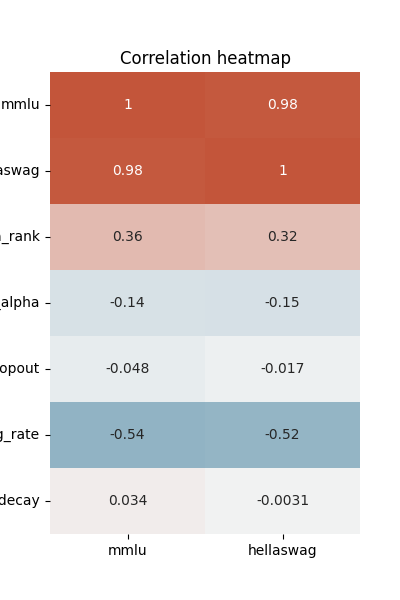
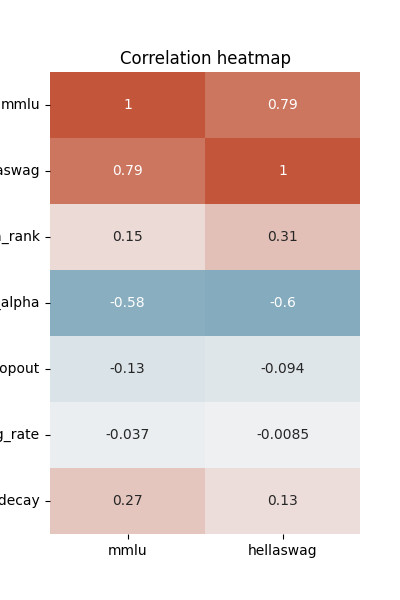
add lhs_bis results

diff --git a/computation_experiments/smpl_analysis.py b/computation_experiments/smpl_analysis.py
@@ -4,7 +4,7 @@ import seaborn as sns
 import matplotlib.pyplot as plt
 from datetime import datetime
 
-exp_name = "lhs"
+exp_name = "lhs_bis"
 file_name = "results/" + exp_name + ".json"
 datas = []
 with open(file_name, 'r') as f:
@@ -35,7 +35,7 @@ def days_between(d1, d2):
     minute = int((sec - hours*3600)/60)
     return f"{int(sec / 3600)} hours, {minute} minutes and {sec % 60} seconds"
 start_date = min(data["timing"].apply(lambda x : x["opening_time"]))
-end_date = max(data["timing"].apply(lambda x : x["starting_time"]))
+end_date = max(data["timing"].apply(lambda x : x["ending_time"]))
 
 print(days_between(start_date, end_date))
 print(score.corr())
